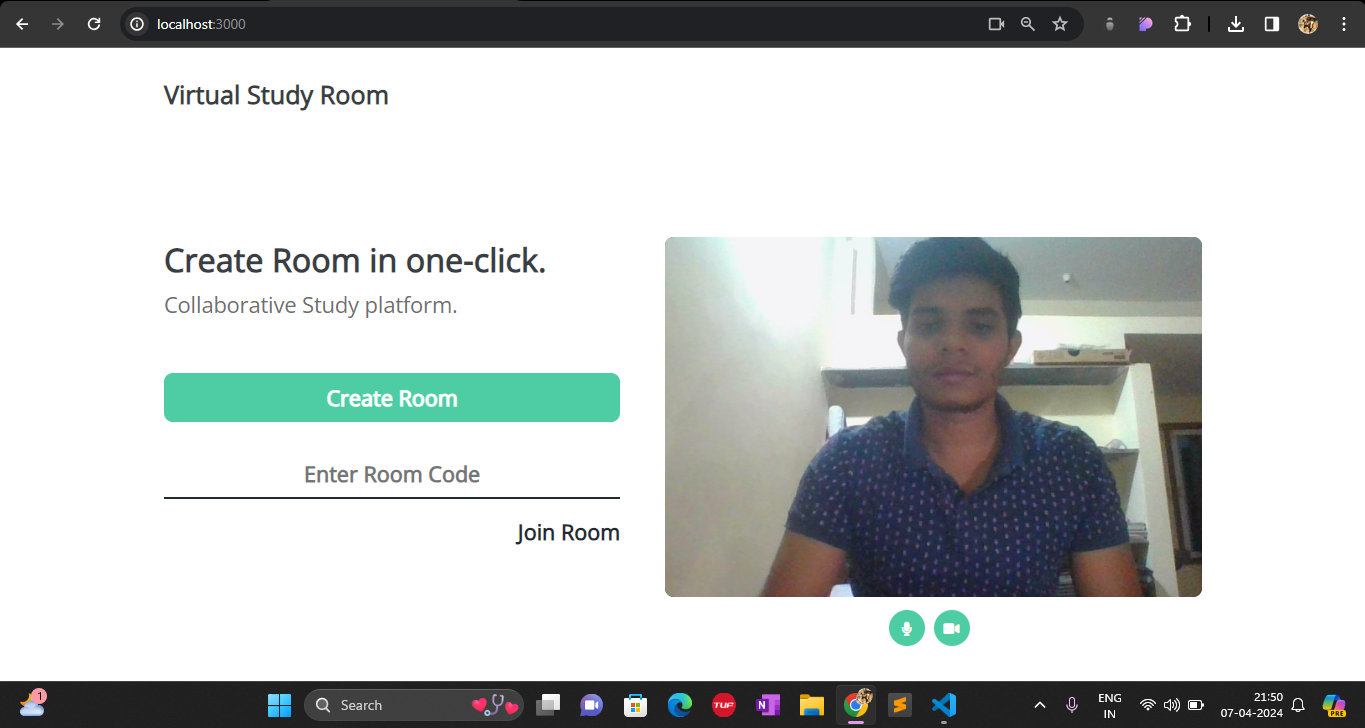
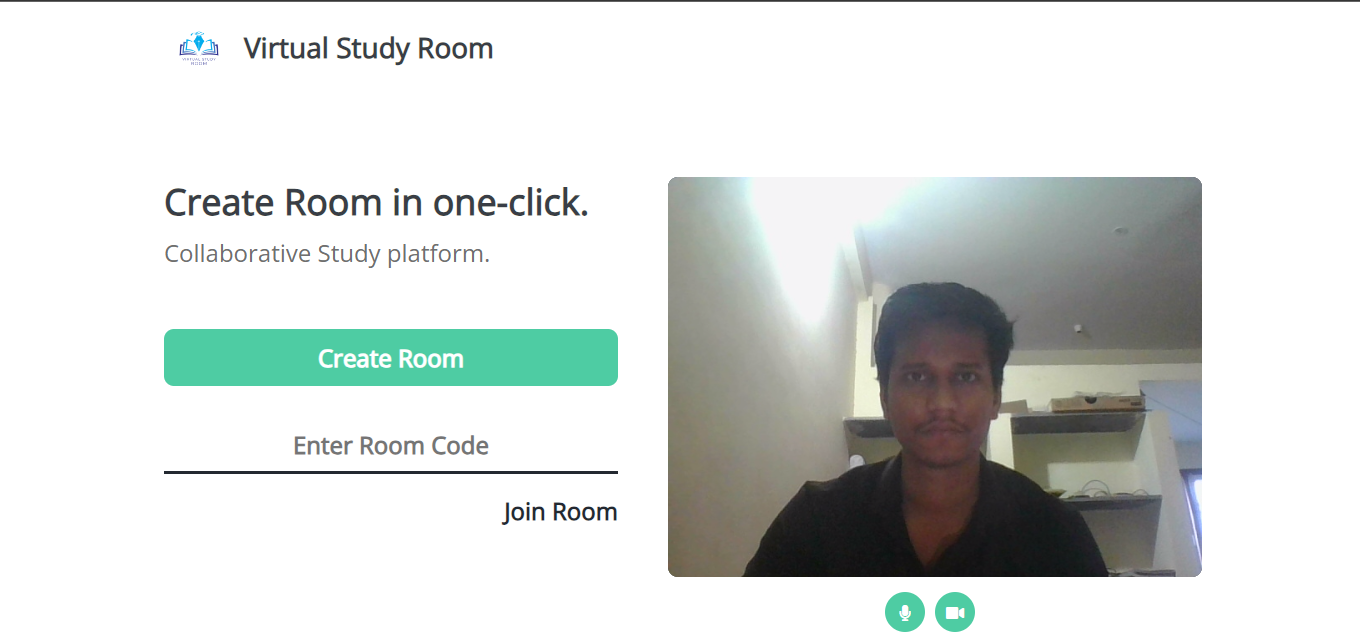
updated readme file

diff --git a/README.md b/README.md
@@ -9,6 +9,8 @@ Virtual Study Room is a fully functional ed-tech platform that enables students 
 
 <img align="center" src="./public/assets/p3.png">
 
+<img align="center" src="./public/assets/p4.png">
+
 <br><br>
 
 ## Technologies Used 
